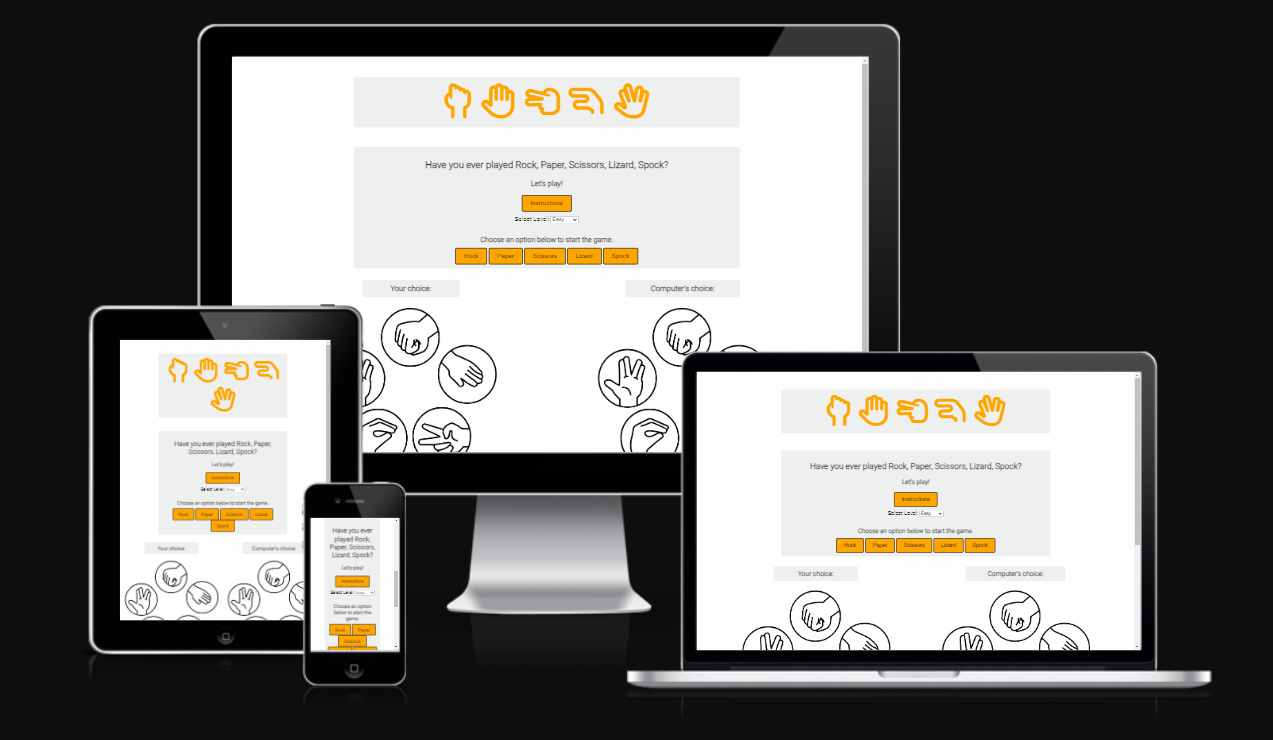
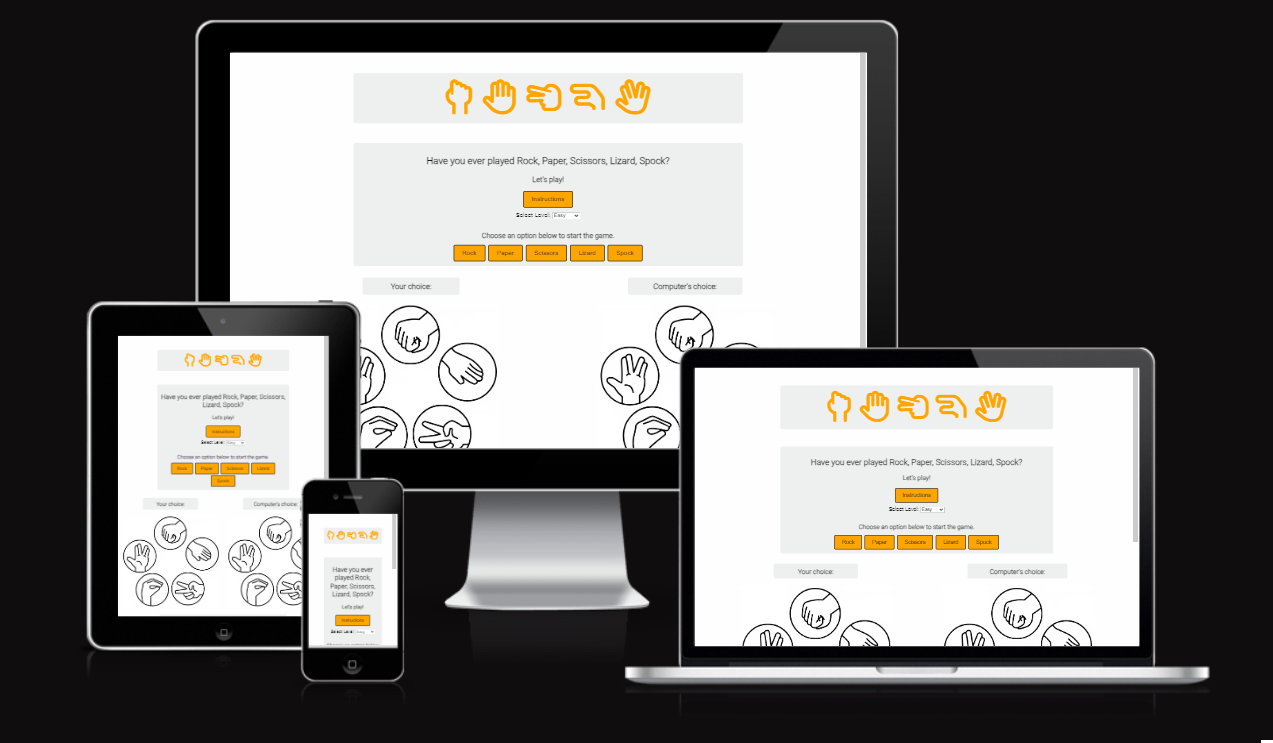
add some updates and finish project

Changed region(s): [[0.0613, 0.0, 0.9497, 0.9324], [0.337, 0.1865, 0.5208, 0.373], [0.9804, 0.9946, 1.0, 1.0]]

diff --git a/assets/css/style.css b/assets/css/style.css
@@ -1,13 +1,15 @@
-/* Global style */
+/* Global styles */
 :root {
-    --background-color: #fefefe; 
-    --text-color: #1c1c1c; 
-    --second-background-color: rgb(238, 239, 239); 
-    --button-color: #FFA500; 
+    /* Color variables */
+    --background-color: #fefefe;
+    --text-color: #1c1c1c;
+    --second-background-color: rgb(238, 239, 239);
+    --button-color: #FFA500;
     --hover-color: var(--background-color);
-    --hover-text-color: var(--text-color); 
+    --hover-text-color: var(--text-color);
 }
 
+/* Set styles for HTML and body elements */
 html {
     min-height: 100%;
     position: relative;
@@ -21,13 +23,11 @@ body {
     text-align: center;
 }
 
-/* Heading */
+/* Heading styles */
 .heading {
+    /* Centered and styled heading */
     width: 60%;
-    margin-top: 50px;
-    margin-bottom: 50px;
-    margin-left: auto;
-    margin-right: auto;
+    margin: 50px auto;
     text-align: center;
     font-size: 5.5rem;
     padding: 10px;
@@ -36,60 +36,51 @@ body {
     border-radius: 5px;
 }
 
+/* Game area styles */
 .game-area {
+    /* Centered game area */
     width: 60%;
-    margin-left: auto;
-    margin-right: auto;
-    margin-top: 1%;
+    margin: 1% auto;
     text-align: center;
     background-color: var(--second-background-color);
     padding: 10px;
     border-radius: 5px;
 }
 
+/* Choice elements layout */
 .choices {
     display: flex;
     justify-content: space-evenly;
 }
 
 .choice {
+    /* Styling for user and computer choices */
     text-align: center;
     margin: 10px;
 }
 
-.user {
+.user, .computer {
+    /* Styling for user and computer choice text */
     font-weight: bold;
     color: var(--text-color);
     background-color: var(--second-background-color);
     font-size: 1.2rem;
-    padding: 10px 10px 10px 10px;
+    padding: 10px;
     border-radius: 5px;
     width: 50%;
     text-align: center;
-    margin-left: auto;
-    margin-right: auto;
-}
-
-.computer {
-    font-weight: bold;
-    color: var(--text-color);
-    background-color: var(--second-background-color);
-    font-size: 1.2rem;
-    padding: 10px 10px 10px 10px;
-    border-radius: 5px;
-    width: 60%;
-    text-align: center;
-    margin-left: auto;
-    margin-right: auto;
+    margin: 0 auto;
 }
 
 .choice img {
+    /* Styling for choice images */
     max-width: 100%;
     border-radius: 10px;
 }
 
-/* All the buttons of the game */
+/* Button styles */
 button {
+    /* Reset default button styles */
     border: none;
     padding: 0;
     background: none;
@@ -97,6 +88,7 @@ button {
 }
 
 .game-button {
+    /* Styling for game buttons */
     background-color: var(--button-color);
     color: var(--text-color);
     padding: 10px 20px;
@@ -108,11 +100,13 @@ button {
 }
 
 .game-button:hover {
-    background-color: var(--background-color);
-    color: var(--text-color);
+    /* Button hover effect */
+    background-color: var(--hover-color);
+    color: var(--hover-text-color);
 }
 
 .instruction-button {
+    /* Styling for instruction button */
     background-color: var(--button-color);
     color: var(--text-color);
     padding: 10px 20px;
@@ -123,15 +117,18 @@ button {
 }
 
 .instruction-button:hover {
-    background-color: var(--background-color);
-    color: var(--text-color);
+    /* Instruction button hover effect */
+    background-color: var(--hover-color);
+    color: var(--hover-text-color);
 }
 
-.refresh{
+.refresh {
+    /* Styling for the refresh button container */
     padding: 10px;
 }
 
 .refresh-button {
+    /* Styling for the refresh button */
     background-color: var(--button-color);
     color: var(--text-color);
     padding: 10px 20px;
@@ -140,29 +137,30 @@ button {
     border-radius: 4px;
     transition: background-color 0.3s, color 0.3s;
     text-align: center;
-    margin-left: auto;
-    margin-right: auto;
+    margin: 0 auto;
 }
 
 .refresh-button:hover {
-    background-color: var(--background-color);
-    color: var(--text-color);
+    /* Refresh button hover effect */
+    background-color: var(--hover-color);
+    color: var(--hover-text-color);
 }
 
-/* result and score */
+/* Score and result styles */
 .score {
+    /* Styling for score display */
     font-size: 1.2rem;
     font-weight: bold;
     max-width: 60%;
-    margin-left: auto;
-    margin-right: auto;
-    margin-top: 1%;
+    margin: 1% auto;
     text-align: center;
     background-color: var(--second-background-color);
     padding: 1px;
-  }
+}
 
+/* Footer styles */
 footer {
+    /* Styling for the footer */
     position: absolute;
     width: 100%;
     left: 0;
@@ -174,11 +172,12 @@ footer {
     color: var(--background-color);
 }
 
-/* instructions popup window */
+/* Instructions popup styles */
 .popup {
+    /* Styling for the instructions popup */
     display: none;
     position: fixed;
-    top: 0px;
+    top: 0;
     left: 0;
     width: 100%;
     height: 100%;
@@ -190,6 +189,7 @@ footer {
 }
 
 .popup-content {
+    /* Styling for the popup content */
     color: var(--text-color);
     background-color: var(--background-color);
     padding: 20px;
@@ -199,6 +199,7 @@ footer {
 }
 
 .close-button {
+    /* Styling for the close button */
     position: absolute;
     top: 10px;
     right: 10px;
@@ -206,49 +207,17 @@ footer {
     cursor: pointer;
 }
 
-@keyframes fadeIn {
-    from {
-        opacity: 0;
-    }
-
-    to {
-        opacity: 1;
-    }
-}
-
-#game {
-    margin-top: 20px;
-}
-
-#result {
-    font-weight: bold;
-    margin-top: 20px;
-    font-size: 18px;
-}
-
-#result p {
-    margin: 10px 0;
-}
-
-.level-selection{
-    padding: 10px;
-}
-
-.game {
-    font-weight: bold;
-}
-
-/* Media query to hide the heading on screens under 875px */
+/* Media queries */
 @media (max-width: 875px) {
+    /* Responsive styles for screens under 875px */
     .heading {
         font-size: 3rem;
     }
 }
 
-/* Media query to hide the heading on screens under 475px */
 @media (max-width: 475px) {
+    /* Responsive styles for screens under 475px */
     .heading {
         font-size: 2rem;
     }
 }
-

diff --git a/index.html b/index.html
@@ -43,8 +43,8 @@
                     <span class="close-button">&times;</span>
                     <h2>Instructions</h2>
                     <!-- Game instructions -->
-                    <p>To start the game, select your level and choose an option among Rock, Paper, Scissors, Lizard,
-                        and Spock.</p>
+                    <p>To start the game, select your level (Easy - 5 tries, Medium - 3 tries and Hard - 1 try) then
+                        choose an option among Rock, Paper, Scissors, Lizard, and Spock.</p>
                     <p>Each player picks a variable and reveals it at the same time. The winner is the one who defeats
                         the others. In a tie, the process is repeated until a winner is found.</p>
                     <p>Game Rules:

diff --git a/README.md b/README.md
@@ -124,6 +124,8 @@ The code in this project has been validated using various online validators to e
 
 ![A picture of the accessibility level of the website](documentation/accessibility.png)
 
+
+
 ## Deployment
 
 The site was deployed to GitHub Pages. The steps to deploy are as follows:
